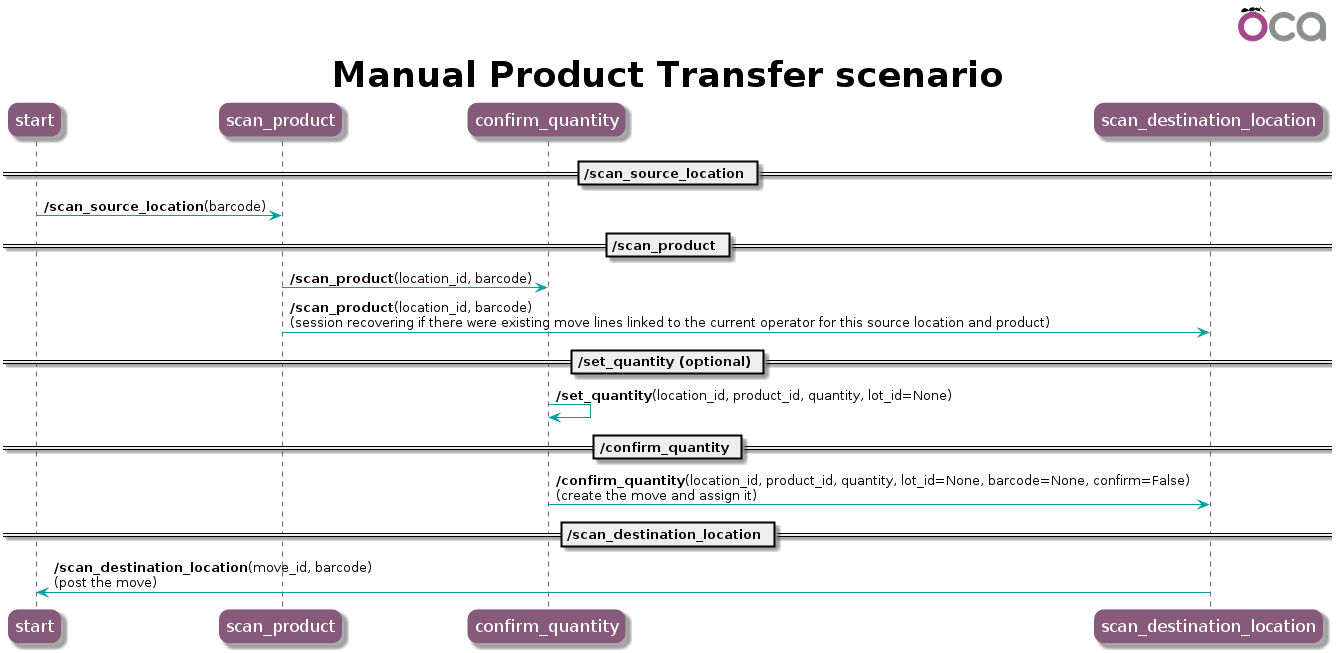
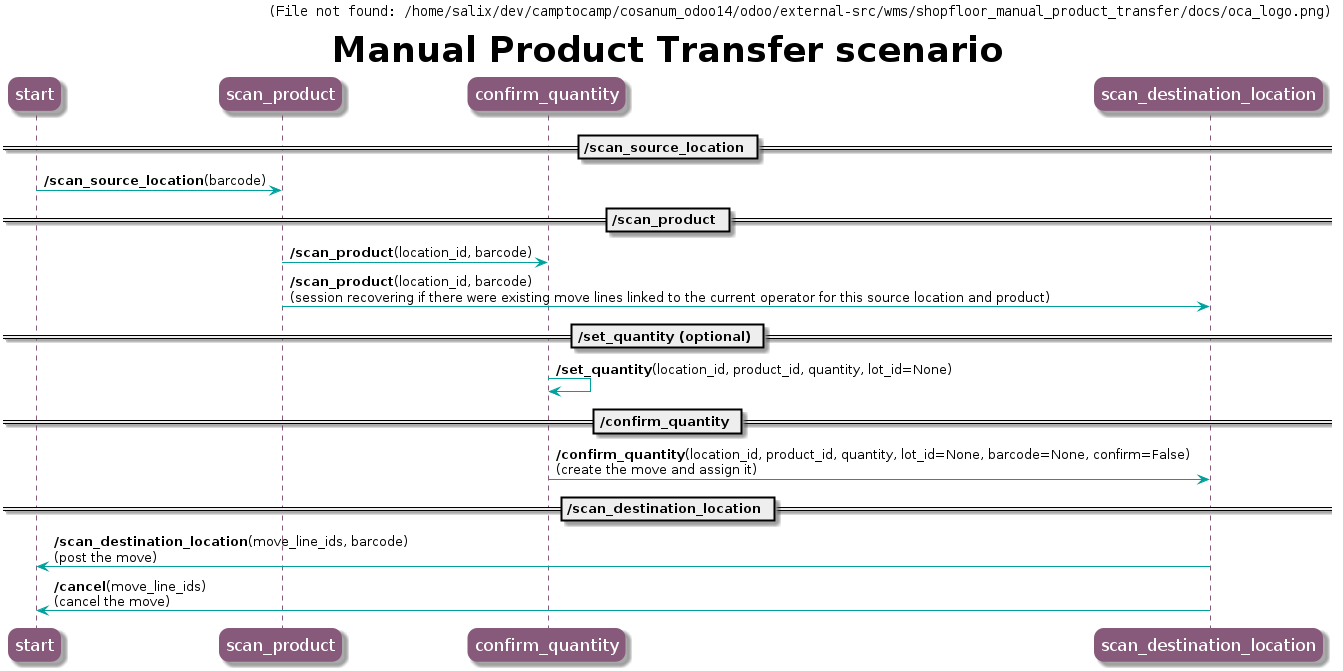
sf_manual_product_transfer: cancel button now cancels the created move
At the `confirm_quantity` step a move is created and we switch to
the `scan_destination_location` step. From there, if we click
on the `Cancel` button we want to cancel the move created in the
previous step.

Changed region(s): [[0.0, 0.0, 1.0, 0.9801], [0.0, 0.9188, 0.0305, 0.9801], [0.8853, 0.4288, 0.9159, 0.4594]]

diff --git a/shopfloor_manual_product_transfer_mobile/static/wms/src/scenario/manual_product_transfer.js b/shopfloor_manual_product_transfer_mobile/static/wms/src/scenario/manual_product_transfer.js
@@ -314,7 +314,11 @@ const ManualProductTransfer = {
                         );
                     },
                     on_cancel: () => {
-                        this.state_to("scan_source_location");
+                        this.wait_call(
+                            this.odoo.call("cancel", {
+                                move_line_ids: this.move_line_ids(),
+                            })
+                        );
                     },
                 },
             },

diff --git a/shopfloor_manual_product_transfer/services/manual_product_transfer.py b/shopfloor_manual_product_transfer/services/manual_product_transfer.py
@@ -1,6 +1,7 @@
 # Copyright 2020 Camptocamp SA (http://www.camptocamp.com)
 # License AGPL-3.0 or later (http://www.gnu.org/licenses/agpl.html).
 
+from odoo.exceptions import UserError
 from odoo.fields import first
 from odoo.tools import float_compare, float_is_zero
 
@@ -572,6 +573,31 @@ class ManualProductTransfer(Component):
             message=self.msg_store.transfer_done_success(move_lines.picking_id)
         )
 
+    def cancel(self, move_line_ids):
+        """Cancel the move we created in 'confirm_quantity' step.
+
+        Transitions:
+        * start: move has been canceled successfully
+        * scan_destination_location: unable to cancel move (error)
+        """
+        move_lines = self.env["stock.move.line"].browse(move_line_ids).exists()
+        # Get back on the start screen if record IDs do not exist
+        if not move_lines or move_lines.ids != move_line_ids:
+            return self._response_for_start(message=self.msg_store.record_not_found())
+        try:
+            move_lines.move_id._action_cancel()
+        except UserError:
+            return self._response_for_scan_destination_location(
+                move_lines.picking_id,
+                move_lines,
+                message=self.msg_store.transfer_canceled_error(move_lines.picking_id),
+            )
+        else:
+            # We can remove the move and its picking if this one is empty
+            return self._response_for_start(
+                message=self.msg_store.transfer_canceled_success(move_lines.picking_id)
+            )
+
 
 class ShopfloorManualProductTransferValidator(Component):
     """Validators for the Manual Product Transfer endpoints"""
@@ -617,6 +643,15 @@ class ShopfloorManualProductTransferValidator(Component):
                 "schema": {"coerce": to_int, "required": True, "type": "integer"},
             },
             "barcode": {"required": True, "type": "string"},
+        }
+
+    def cancel(self):
+        return {
+            "move_line_ids": {
+                "type": "list",
+                "required": True,
+                "schema": {"coerce": to_int, "required": True, "type": "integer"},
+            },
         }
 
 

diff --git a/shopfloor_manual_product_transfer/tests/test_manual_product_transfer_scan_destination_location.py b/shopfloor_manual_product_transfer/tests/test_manual_product_transfer_scan_destination_location.py
@@ -10,6 +10,7 @@ class ManualProductTransferScanDestinationLocation(ManualProductTransferCommonCa
     Endpoints:
 
     * /scan_destination_location
+    * /cancel
     """
 
     def test_scan_destination_location_wrong_picking_id(self):
@@ -64,4 +65,15 @@ class ManualProductTransferScanDestinationLocation(ManualProductTransferCommonCa
         self.assertEqual(move_lines.state, "done")
         self.assert_response_start(
             response, message=self.service.msg_store.transfer_done_success(picking)
+        )
+
+    def test_cancel_ok(self):
+        picking, move_lines = self._confirm_quantity()
+        response = self.service.dispatch(
+            "cancel",
+            params={"move_line_ids": move_lines.ids},
+        )
+        self.assertEqual(move_lines.state, "cancel")
+        self.assert_response_start(
+            response, message=self.service.msg_store.transfer_canceled_success(picking)
         )

diff --git a/shopfloor_manual_product_transfer/actions/message.py b/shopfloor_manual_product_transfer/actions/message.py
@@ -13,3 +13,15 @@ class MessageAction(Component):
             "message_type": "error",
             "body": _("This quantity exceeds the initial one."),
         }
+
+    def transfer_canceled_error(self, picking):
+        return {
+            "message_type": "error",
+            "body": _("Unable to cancel the transfer {}.").format(picking.name),
+        }
+
+    def transfer_canceled_success(self, picking):
+        return {
+            "message_type": "success",
+            "body": _("Transfer {} canceled.").format(picking.name),
+        }
